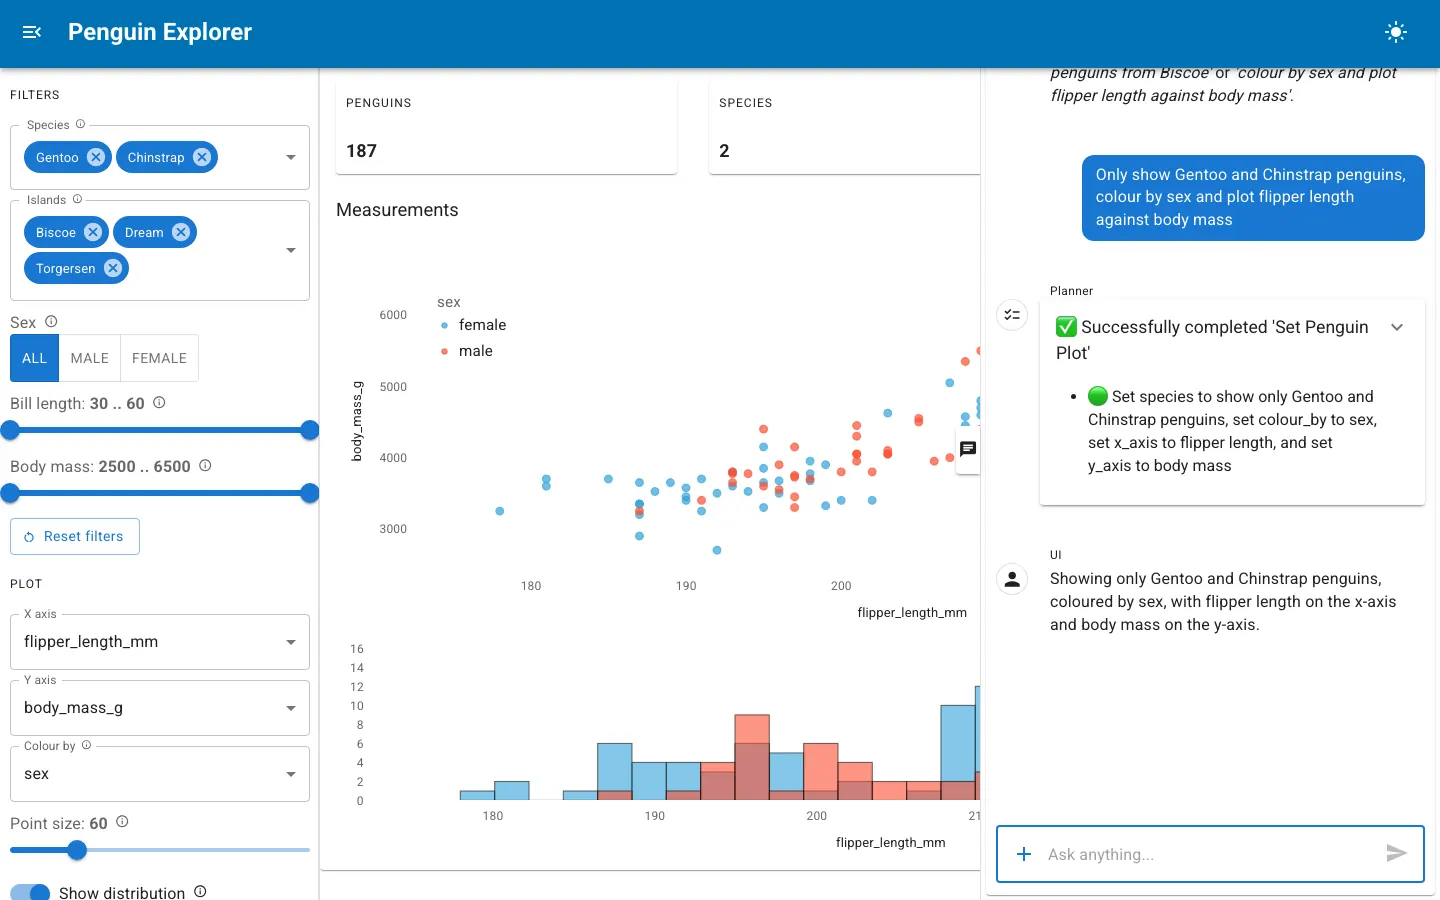
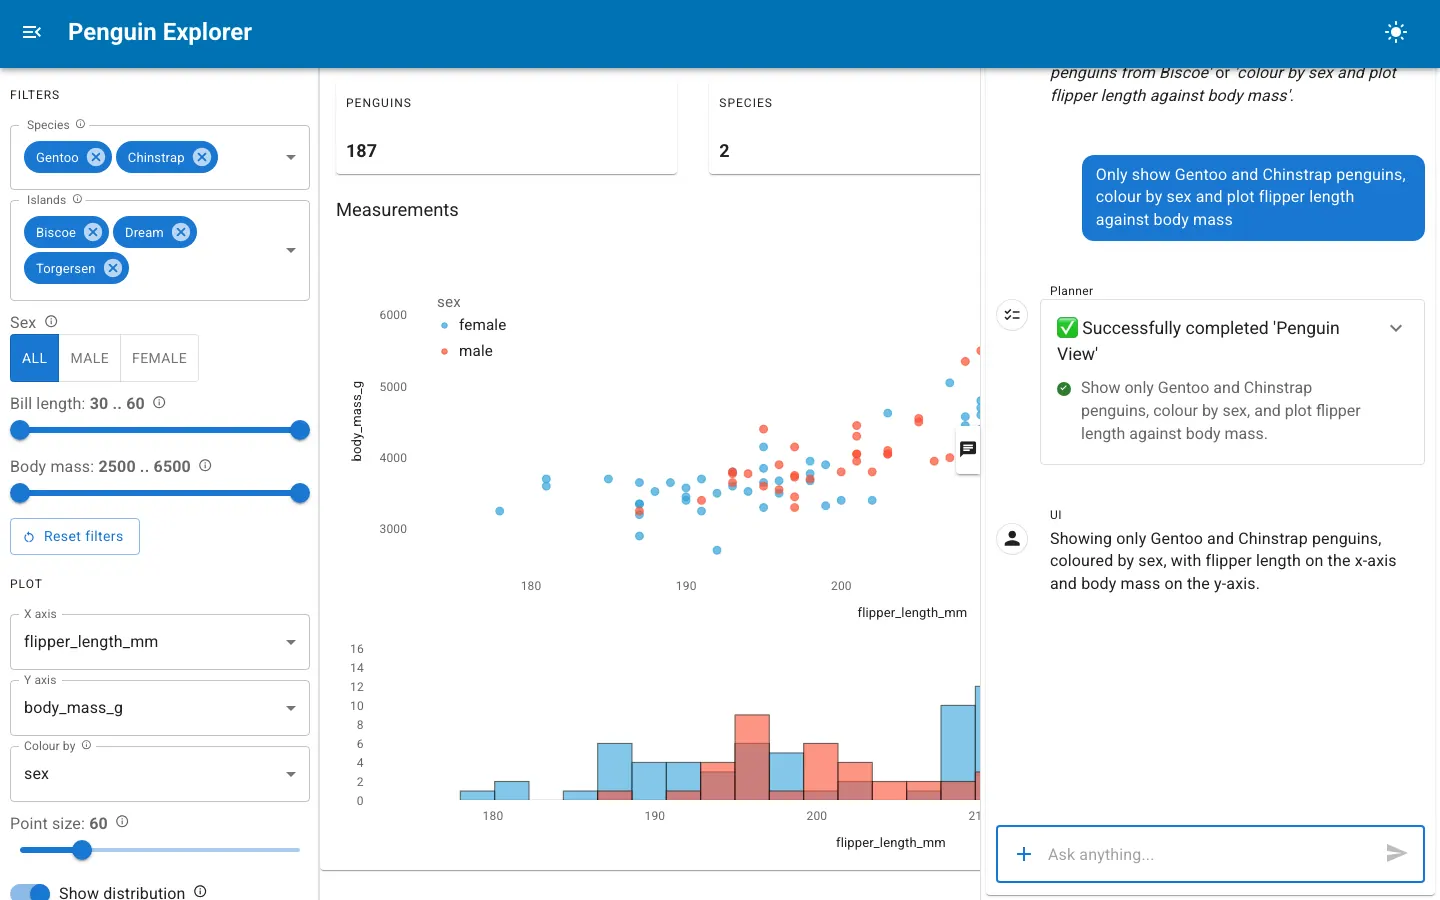
homepage: Make the hero volatility slider change the chart and refresh the copilot screenshot (#8907)

diff --git a/doc/homepage/src/lib/series.ts b/doc/homepage/src/lib/series.ts
@@ -10,6 +10,10 @@
  */
 
 const N = 400
+// The y axis fits the walk, so a walk that is only sigma times a fixed path would look
+// identical at every sigma. A drift that does not scale with sigma makes volatility
+// change the shape: a steady climb at low sigma, noise that swamps the trend at high sigma.
+const DRIFT = 0.05
 
 /** mulberry32: small, fast, and identical across engines. */
 function rng(seed: number) {
@@ -85,7 +89,7 @@ export function chartGeometry(ticker: string, sigma: number, window: number): Ch
   const walk = new Float64Array(N)
   let acc = 0
   for (let i = 0; i < N; i++) {
-    acc += steps[i]
+    acc += DRIFT + steps[i]
     walk[i] = acc
   }
   const smooth = movingAverage(walk, window)

diff --git a/doc/homepage/src/content/site.ts b/doc/homepage/src/content/site.ts
@@ -55,7 +55,7 @@ export const heroCode: {key: HeroKey | null; text: string}[] = [
   {key: null, text: ''},
   {key: 'bind', text: 'def series(window, sigma, ticker):'},
   {key: 'bind', text: '    rng = np.random.default_rng(sum(map(ord, ticker)))'},
-  {key: 'bind', text: '    walk = np.cumsum(rng.normal(0, sigma, 400))'},
+  {key: 'bind', text: '    walk = np.cumsum(rng.normal(0.05, sigma, 400))'},
   {key: 'bind', text: '    smooth = np.convolve(walk, np.ones(window) / window, "same")'},
   {key: 'bind', text: '    return hv.Curve(walk).opts(alpha=0.4) * hv.Curve(smooth)'},
   {key: null, text: ''},
